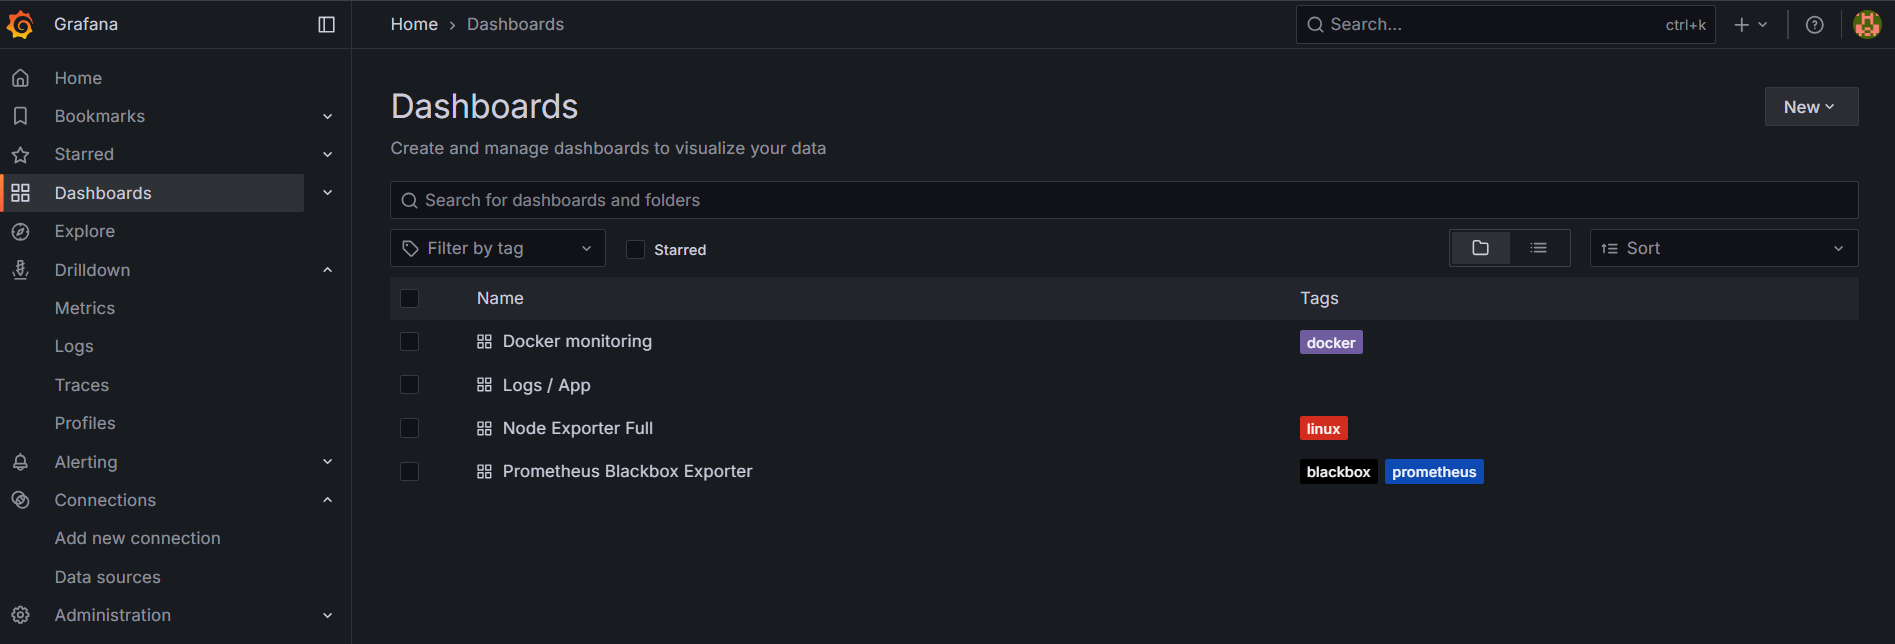
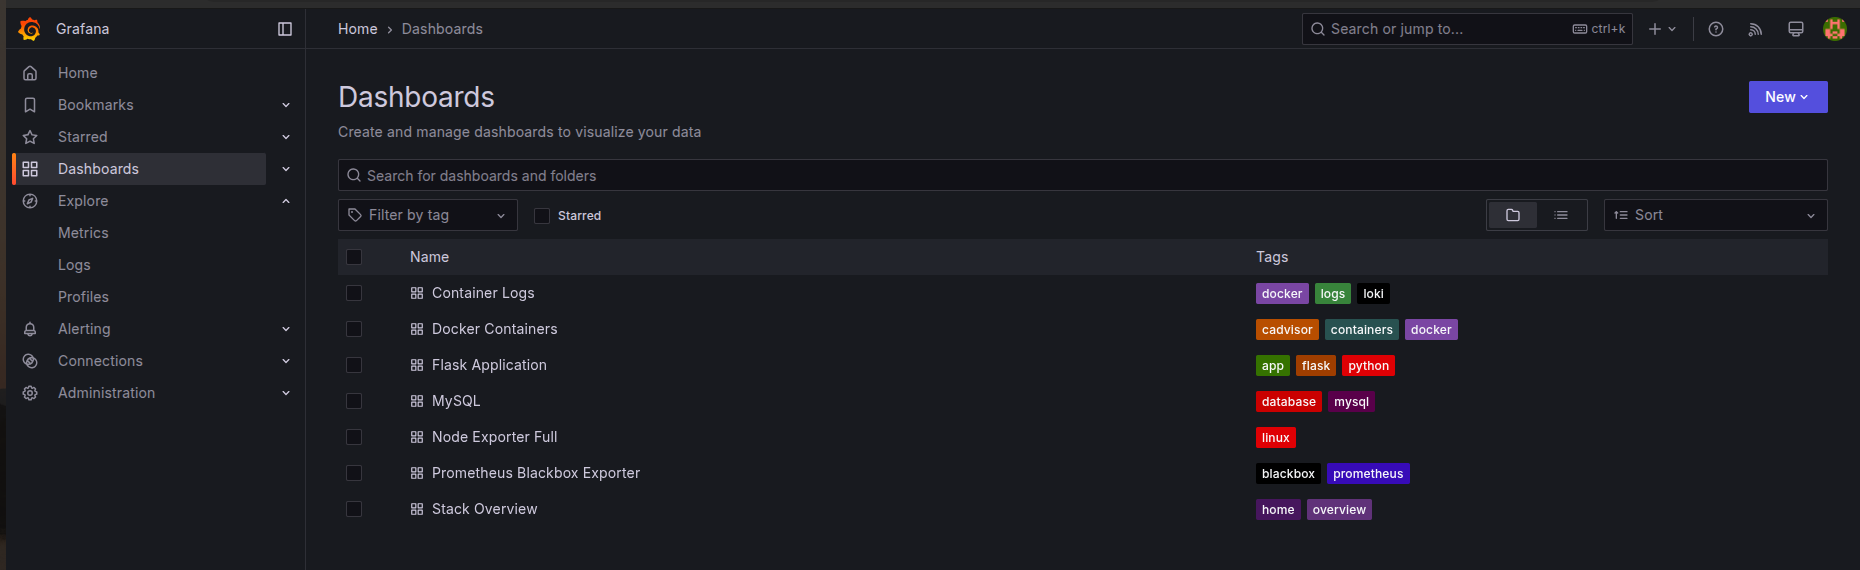
chore: clean up .gitignore by removing Nginx Proxy Manager runtime data docs: update README for clarity and structure, enhance project overview fix: update Grafana dashboard image

diff --git a/README.md b/README.md
@@ -1,37 +1,35 @@
 # Docker Stack
 
-A production-style containerized application stack — Flask + MySQL behind NGINX, with full observability via Prometheus, Loki, and Grafana. Everything runs with a single command.
+<div align="center">
+
+[![Docker](https://img.shields.io/badge/Docker-2496ED?logo=docker&logoColor=white)](https://www.docker.com/)
+[![Flask](https://img.shields.io/badge/Flask-000000?logo=flask&logoColor=white)](https://flask.palletsprojects.com/)
+[![MySQL](https://img.shields.io/badge/MySQL-4479A1?logo=mysql&logoColor=white)](https://www.mysql.com/)
+[![NGINX](https://img.shields.io/badge/NGINX-009639?logo=nginx&logoColor=white)](https://nginx.org/)
+[![Prometheus](https://img.shields.io/badge/Prometheus-E6522C?logo=prometheus&logoColor=white)](https://prometheus.io/)
+[![Grafana](https://img.shields.io/badge/Grafana-F46800?logo=grafana&logoColor=white)](https://grafana.com/)
+[![Loki](https://img.shields.io/badge/Loki-F5A623?logo=grafana&logoColor=white)](https://grafana.com/oss/loki/)
+[![License: MIT](https://img.shields.io/badge/License-MIT-yellow.svg)](https://opensource.org/licenses/MIT)
+
+*A production-style containerized application stack with full observability*
+
+</div>
+
+## Overview
+
+This project is a fully containerized application stack built with production practices in mind. It runs a Flask web application backed by MySQL, served through NGINX as the sole public entry point. On top of that, a complete observability layer is wired in — Prometheus collects metrics from every service, Loki aggregates all container logs, and Grafana provides 7 pre-built dashboards covering the full stack.
+
+## 🏗 Architecture Overview
 
 ![Architecture](assets/architecture/project_arch_updated.png)
 
----
 
-## Stack
-
-| Service | Host Port | Role |
-|---------|-----------|------|
-| **NGINX** | `80` | Reverse proxy — sole public entry point |
-| **Flask App** | — | Python web app (internal only, behind NGINX) |
-| **MySQL** | — | Database (internal only) |
-| **Grafana** | `3000` | Dashboards — metrics + logs |
-| **Prometheus** | `9090` | Metrics collection and storage |
-| **Loki** | `3100` | Log aggregation |
-| **Alloy** | `12345` | Telemetry agent (metrics + logs → Prometheus/Loki) |
-| **cAdvisor** | `8080` | Per-container resource metrics |
-| **mysqld-exporter** | `9104` | MySQL metrics for Prometheus |
-| **Blackbox Exporter** | `9115` | HTTP uptime probing |
-
----
-
-## Quick Start
-
-### Prerequisites
+## Prerequisites
 
 - Docker 20.10+ and Docker Compose v2
-- `secrets/db_root_pw.txt` and `secrets/db_admin_pw.txt` must exist
+- Secrets files must exist before starting:
 
 ```bash
-# Create secrets (local dev values)
 echo -n "root"  > secrets/db_root_pw.txt
 echo -n "admin" > secrets/db_admin_pw.txt
 ```
@@ -42,7 +40,43 @@ echo -n "admin" > secrets/db_admin_pw.txt
 ./scripts/start.sh
 ```
 
-### Access
+All 10 services start in dependency order. MySQL initializes the schema on first boot (`db/init/01_schema.sql`). Flask waits for MySQL to be healthy before starting. NGINX waits for Flask.
+
+### Stop
+
+```bash
+./scripts/stop.sh
+```
+
+Containers are removed, all named volumes (data) are preserved. To also wipe data:
+
+```bash
+docker compose down -v
+```
+
+### Rebuild the Flask image
+
+```bash
+docker compose build flask-app
+docker compose up -d flask-app
+```
+
+### View logs
+
+```bash
+docker compose logs -f                  # all services
+docker compose logs -f flask-app mysql  # specific services
+```
+
+### Check service status
+
+```bash
+docker compose ps
+```
+
+---
+
+## Access
 
 | Interface | URL | Credentials |
 |-----------|-----|-------------|
@@ -51,12 +85,8 @@ echo -n "admin" > secrets/db_admin_pw.txt
 | Prometheus | http://localhost:9090 | — |
 | Alloy UI | http://localhost:12345 | — |
 | cAdvisor | http://localhost:8080 | — |
-
-### Stop
-
-```bash
-./scripts/stop.sh   # containers removed, volumes preserved
-```
+| mysqld-exporter | http://localhost:9104/metrics | — |
+| Blackbox Exporter | http://localhost:9115 | — |
 
 ---
 
@@ -79,7 +109,7 @@ Alloy also collects host-level metrics (CPU, memory, disk, network) via its buil
 
 ### Logs
 
-Alloy tails all container logs via the Docker socket and ships them to Loki. MySQL slow query log gets special treatment — multiline entries are reassembled and the `query_time` label is extracted for filtering.
+Alloy tails all container logs via the Docker socket and ships them to Loki with `container` and `service` labels. MySQL slow query log gets special treatment — multiline entries are reassembled and the `query_time` label is extracted for filtering.
 
 ### Dashboards
 
